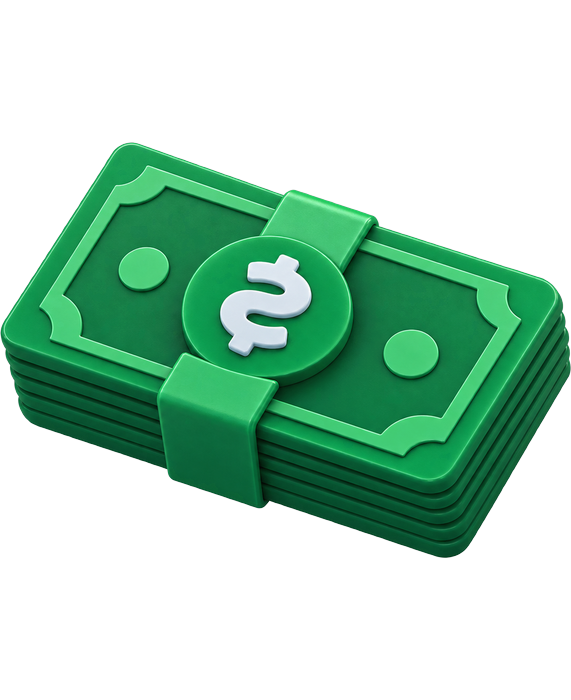
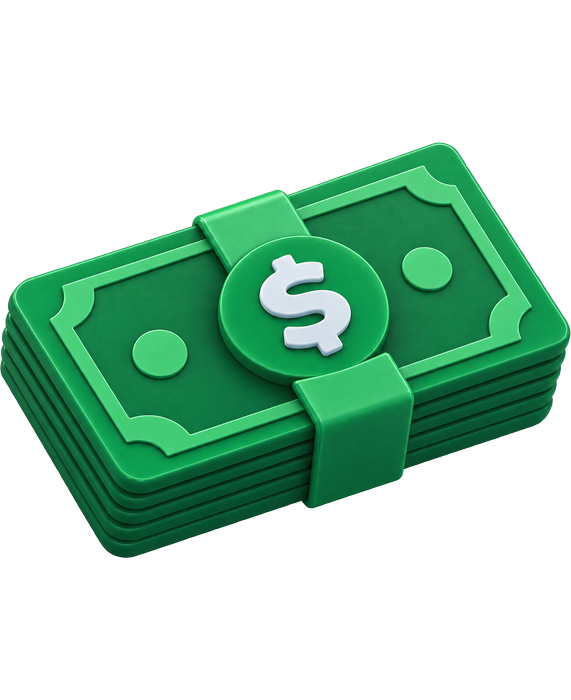
programme: billets verts 3D sens d'origine et plus grands sur la miniature Monetisation

diff --git a/app/globals.css b/app/globals.css
@@ -1029,3 +1029,6 @@ body::before {
 
 /* yma-poster-bas-grossi : illustration Poster (module 17) un peu plus bas (+8px) et un peu plus grosse (1.2 -> 1.3), ancree en bas, PC et telephone */
 [data-yma="yma-mini-test"] .yma-mini-img[src$="module-17.png"] { transform: translateY(8px) scale(1.3) !important; transform-origin: center bottom !important; }
+
+/* yma-billets-agrandi : billets verts (module 19 monetisation) sens d'origine (sans miroir), agrandis de 20%, ancres en bas, PC et telephone */
+[data-yma="yma-mini-test"] .yma-mini-img[src$="module-19.png"] { transform: scale(1.2) !important; transform-origin: center bottom !important; }
